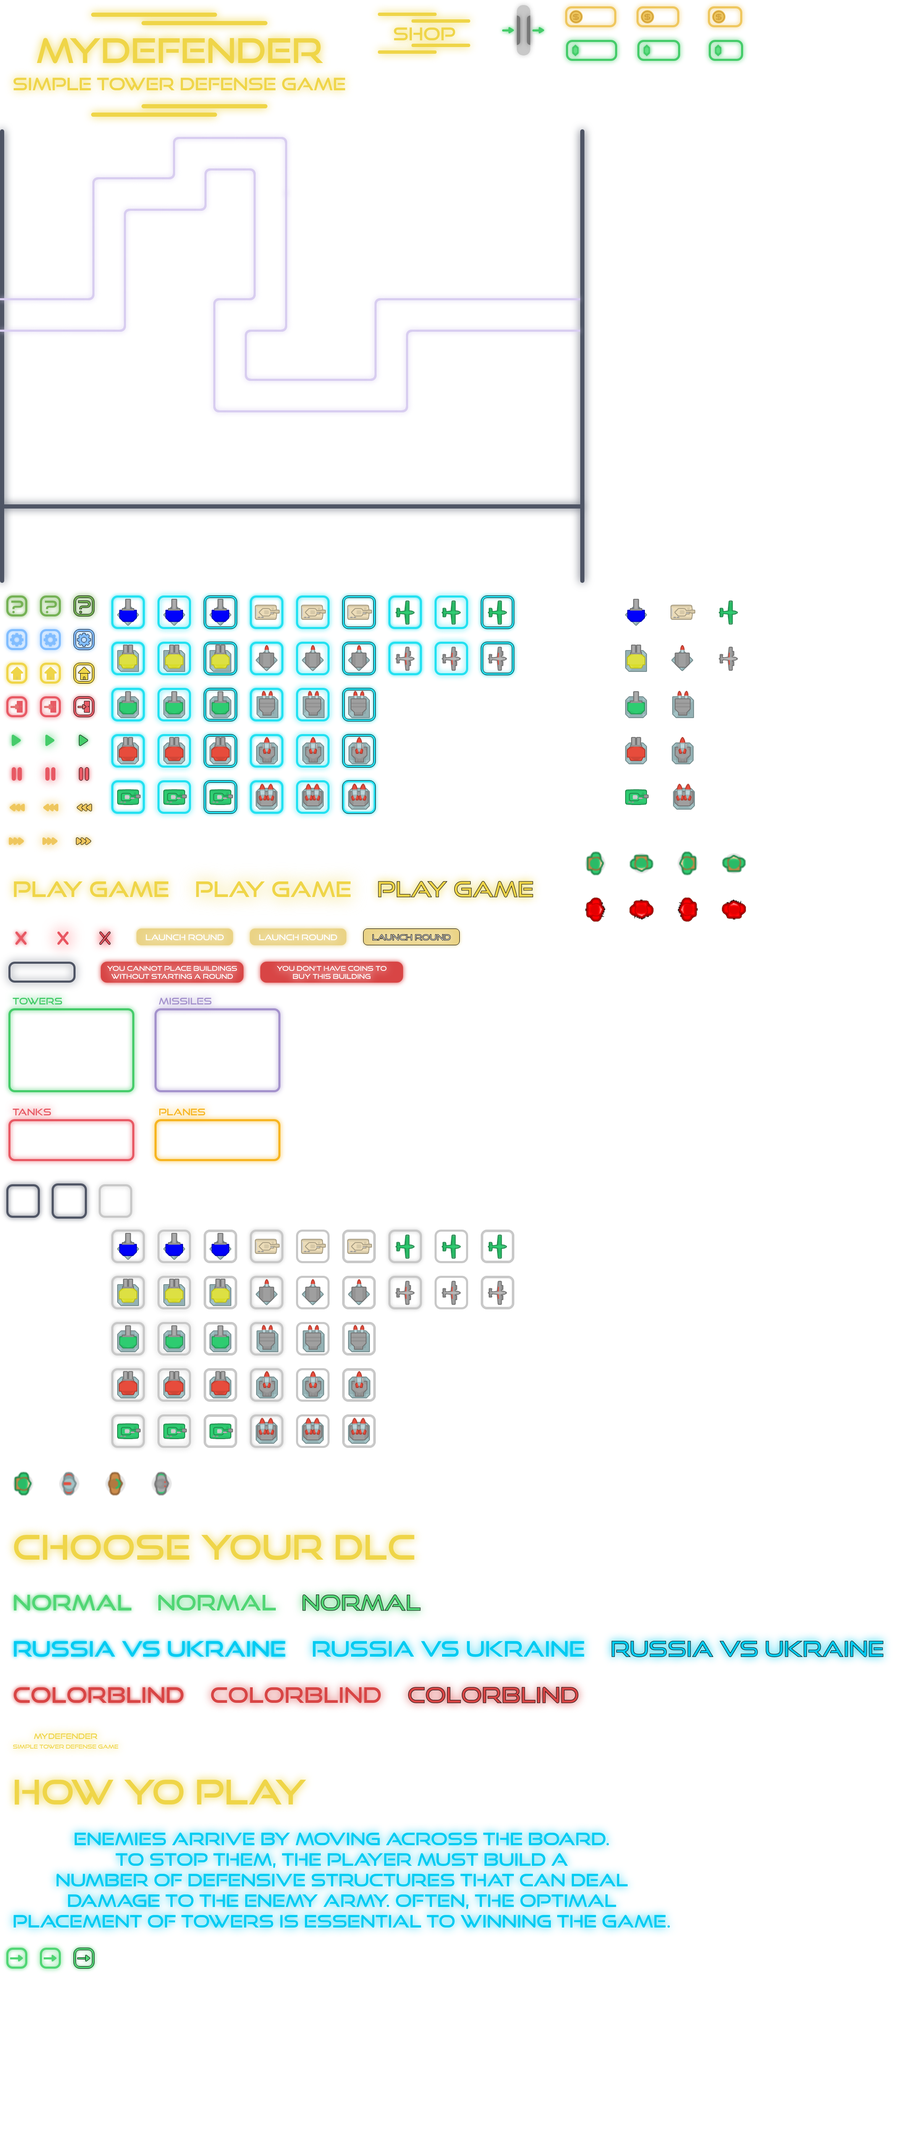
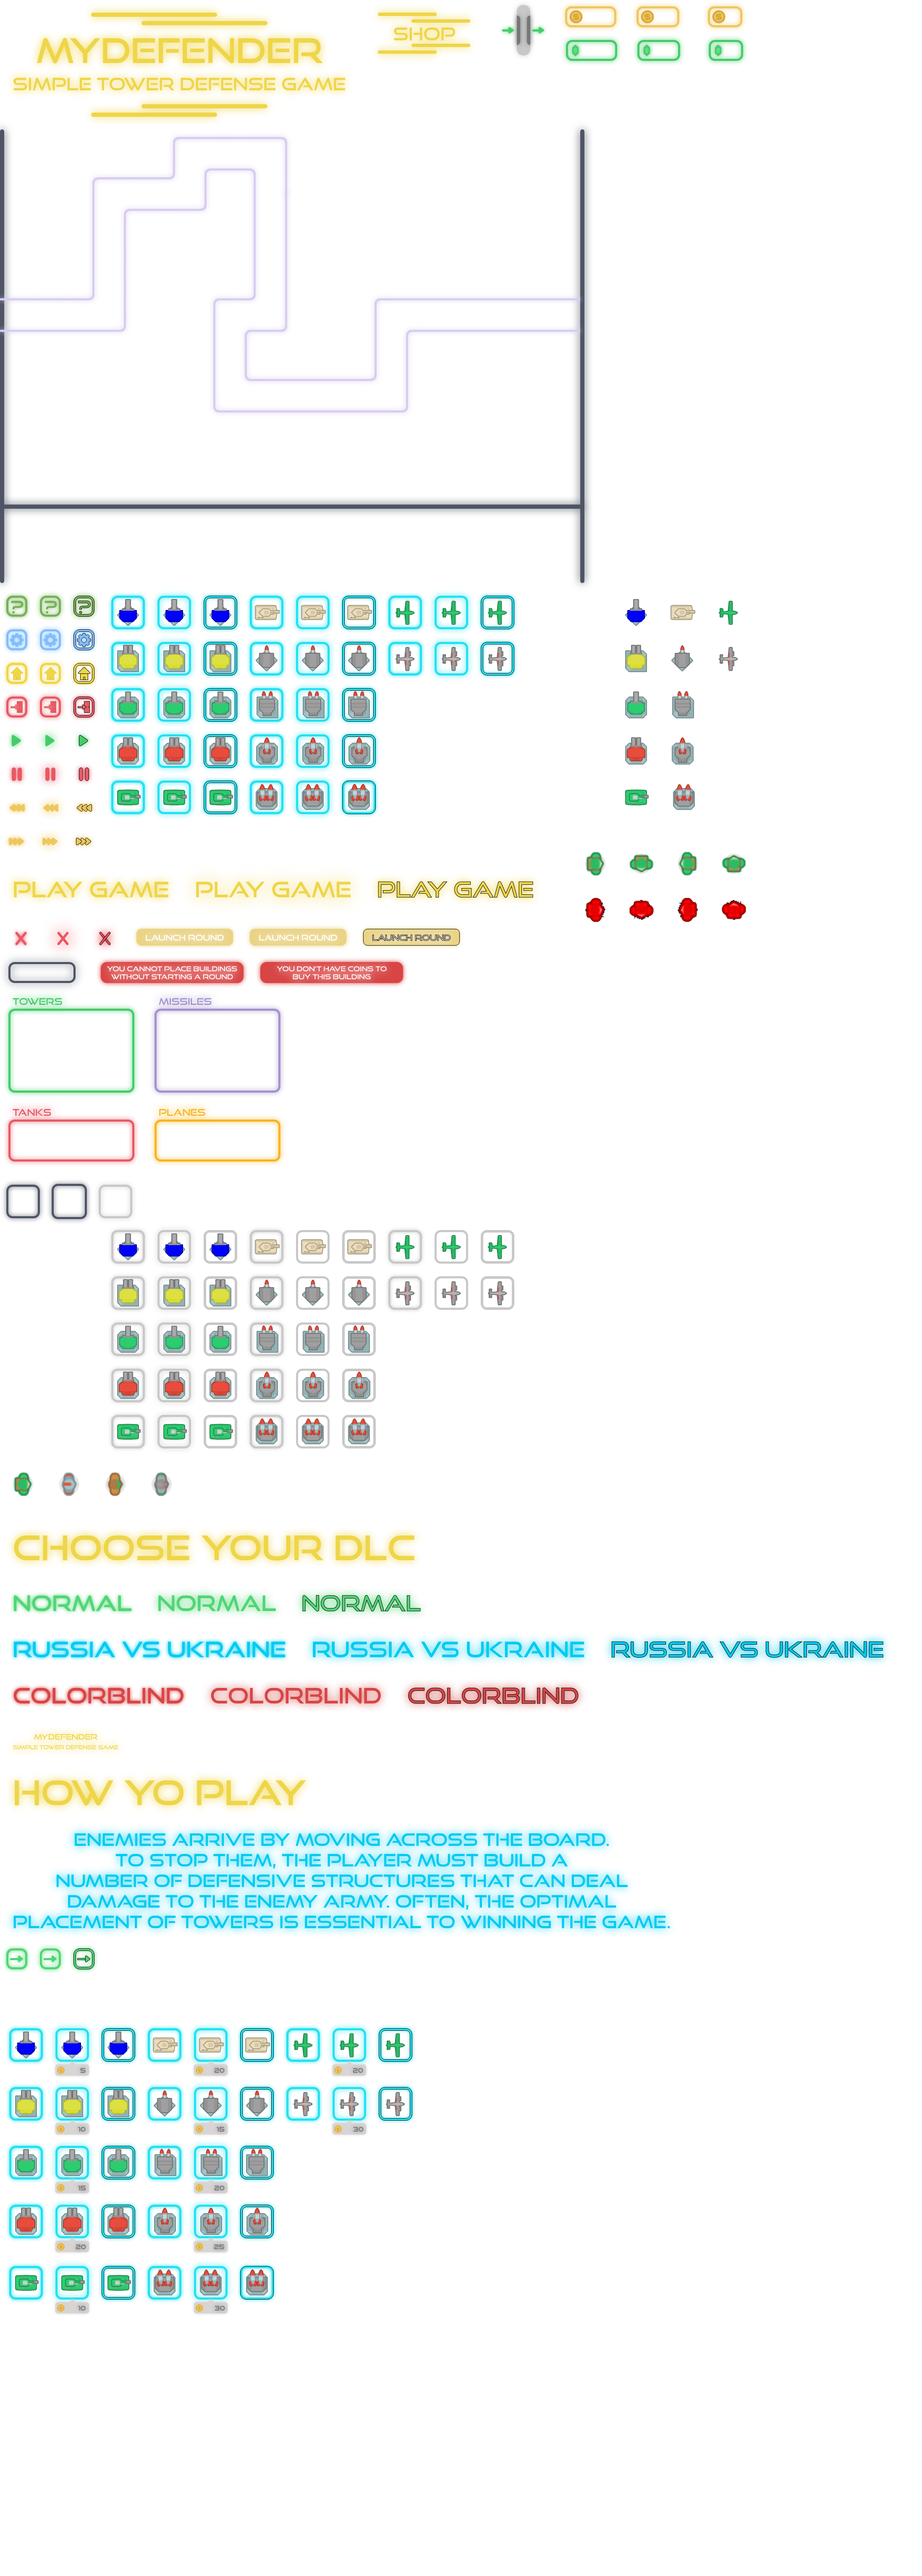
:white_check_mark: add hover on buildings with a price

diff --git a/src/setup/buttons/initializer.c b/src/setup/buttons/initializer.c
@@ -37,18 +37,18 @@ cf QUIT2[12] = {185, 1005, 0, 1643, 80, 80, 2, 220, 1020, 50, 50,MAINA};
 cf TIME_DOWN[12] = {612, 1005, 0, 1883, 80, 80, 2, 633, 1033, 38, 24,MAINA};
 cf TIME_UP[12] = {698, 1005, 0, 1963, 80, 80, 2, 719, 1033, 38, 24,MAINA};
 cf PAUSE[12] = {655, 1005, 0, 1723, 80, 80, 2, 683, 1029, 32, 24,MAINA};
-cf TOWER_1[12] = {1441, 253,250, 1403, 110, 110, 2, 1456, 268, 80, 80,MAINA};
-cf TOWER_2[12] = {1541, 253,250, 1513, 110, 110, 2, 1556, 268, 80, 80,MAINA};
-cf TOWER_3[12] = {1641, 253,250, 1623, 110, 110, 2, 1656, 268, 80, 80,MAINA};
-cf TOWER_4[12] = {1441, 353,250, 1733, 110, 110, 2, 1456, 368, 80, 80,MAINA};
-cf TANK_1[12] = {1441, 504,250, 1843, 110, 110, 2, 1456, 519, 80, 80,MAINA};
-cf TANK_2[12] = {1541, 504,580, 1403, 110, 110, 2, 1556, 519, 80, 80,MAINA};
-cf MISSILE_1[12] = {1441, 655,580, 1513, 110, 110, 2, 1456, 670, 80, 80,MAINA};
-cf MISSILE_2[12] = {1541, 655,580, 1623, 110, 110, 2, 1556, 670, 80, 80,MAINA};
-cf MISSILE_3[12] = {1641, 655,580, 1733, 110, 110, 2, 1656, 670, 80, 80,MAINA};
-cf MISSILE_4[12] = {1441, 755,580, 1843, 110, 110, 2, 1456, 770, 80, 80,MAINA};
-cf PLANE_1[12] = {1441, 906,910, 1403, 110, 110, 2, 1456, 921, 80, 80,MAINA};
-cf PLANE_2[12] = {1541, 906,910, 1513, 110, 110, 2, 1556, 921, 80, 80,MAINA};
+cf TOWER_1[12] = {1441, 253,7, 4813, 140, 110, 2, 1456, 268, 80, 80,MAINA};
+cf TOWER_2[12] = {1541, 253,7, 4953, 140, 110, 2, 1556, 268, 80, 80,MAINA};
+cf TOWER_3[12] = {1641, 253,7, 5093, 140, 110, 2, 1656, 268, 80, 80,MAINA};
+cf TOWER_4[12] = {1441, 353,7, 5233, 140, 110, 2, 1456, 368, 80, 80,MAINA};
+cf TANK_1[12] = {1441, 504,7, 5373, 140, 110, 2, 1456, 519, 80, 80,MAINA};
+cf TANK_2[12] = {1541, 504,339, 4813, 140, 110, 2, 1556, 519, 80, 80,MAINA};
+cf MISSILE_1[12] = {1441, 655,339, 4953, 140, 110, 2, 1456, 670, 80, 80,MAINA};
+cf MISSILE_2[12] = {1541, 655,339, 5093, 140, 110, 2, 1556, 670, 80, 80,MAINA};
+cf MISSILE_3[12] = {1641, 655,339, 5233, 140, 110, 2, 1656, 670, 80, 80,MAINA};
+cf MISSILE_4[12] = {1441, 755,339, 5373, 140, 110, 2, 1456, 770, 80, 80,MAINA};
+cf PLANE_1[12] = {1441, 906,667, 4813, 140, 110, 2, 1456, 921, 80, 80,MAINA};
+cf PLANE_2[12] = {1541, 906,667, 4953, 140, 110, 2, 1556, 921, 80, 80,MAINA};
 
 cf P_1_1[12] = {13, 3, 0, 2805, 110, 110, 2, 28, 18, 80, 80, DRAG_1};
 cf P_2_1[12] = {109, 3, 0, 2805, 110, 110, 2, 124, 18, 80, 80, DRAG_1};
@@ -218,8 +218,8 @@ node_button *re_next_buttons(dfd *df, node_button *node)
 
 node_button *next_buttons(dfd *df, node_button *node)
 {
+    add_button(&node, setup_button(df, MISSILE_2, d_and_d));
     add_button(&node, setup_button(df, MISSILE_3, d_and_d));
-    add_button(&node, setup_button(df, MISSILE_4, d_and_d));
     add_button(&node, setup_button(df, PLANE_1, d_and_d));
     add_button(&node, setup_button(df, PLANE_2, d_and_d));
     add_button(&node, setup_button(df, P_1_1, drag_unclick));
@@ -265,13 +265,13 @@ node_button *setup_buttons(dfd *df)
     add_button(&node, setup_button(df, TIME_DOWN, nothing));
     add_button(&node, setup_button(df, TIME_UP, nothing));
     add_button(&node, setup_button(df, PAUSE, nothing));
+    add_button(&node, setup_button(df, TOWER_4, d_and_d));
     add_button(&node, setup_button(df, TOWER_1, d_and_d));
     add_button(&node, setup_button(df, TOWER_2, d_and_d));
     add_button(&node, setup_button(df, TOWER_3, d_and_d));
-    add_button(&node, setup_button(df, TOWER_4, d_and_d));
     add_button(&node, setup_button(df, TANK_1, d_and_d));
     add_button(&node, setup_button(df, TANK_2, d_and_d));
+    add_button(&node, setup_button(df, MISSILE_4, d_and_d));
     add_button(&node, setup_button(df, MISSILE_1, d_and_d));
-    add_button(&node, setup_button(df, MISSILE_2, d_and_d));
     return next_buttons(df, node);
 }

diff --git a/src/game/steps/global.c b/src/game/steps/global.c
@@ -19,12 +19,11 @@
 
 void global_steps(dfd *df)
 {
-    display_buttons(df);
     display_img(df);
+    display_buttons(df);
     display_buildings(df);
     display_enemies(df);
     check_on_hover(df);
-    //clock_movement_enemies(df);
     clock_lasers_animation(df);
     clock_spawn_enemies(df);
     clock_enemy_anim(df);
